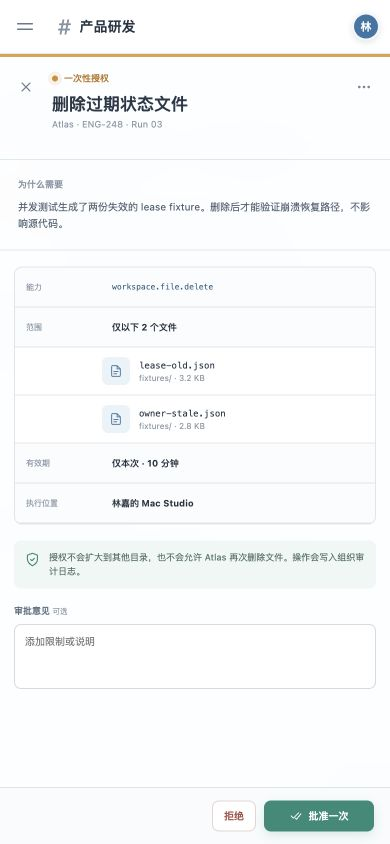
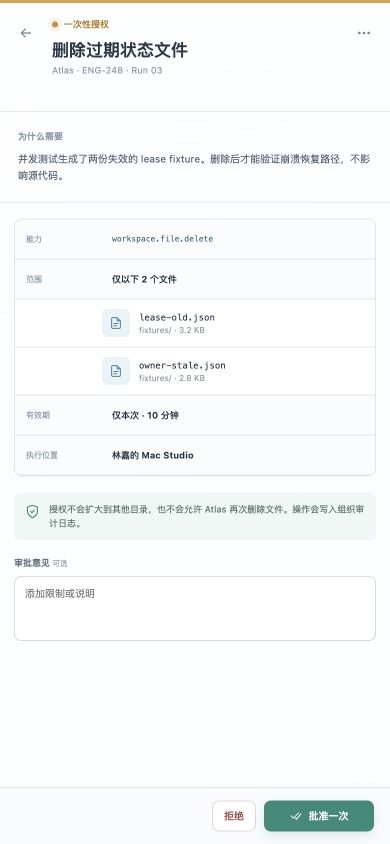
Redesign mobile navigation and task flow

diff --git a/docs/prototype/visual-v2/styles.css b/docs/prototype/visual-v2/styles.css
@@ -174,6 +174,11 @@ kbd { padding: 2px 5px; border: 1px solid var(--line); border-radius: 4px; color
 .icon-button svg { width: 16px; }
 .top-actions > .avatar { margin-left: 2px; }
 .mobile-menu { display: none; }
+.mobile-space-trigger,
+.mobile-bottom-nav,
+.mobile-sheet-scrim,
+.mobile-conversation-sheet,
+.mobile-sheet-back { display: none; }
 .content-stage { position: relative; min-width: 0; min-height: 0; display: grid; grid-template-columns: minmax(500px, 1fr) 270px; overflow: hidden; }
 .conversation { min-width: 0; min-height: 0; display: grid; grid-template-rows: minmax(0, 1fr) auto; background: rgba(255,255,255,.92); }
 .timeline { min-width: 0; overflow-y: auto; padding: 18px max(24px, calc((100% - 760px) / 2)) 24px; scrollbar-width: thin; scrollbar-color: #ced8e1 transparent; }
@@ -405,10 +410,10 @@ code { color: #315f82; font: 8px/1.4 ui-monospace, SFMono-Regular, Menlo, monosp
   body { background: white; }
   .desktop-window { width: 100vw; height: 100vh; min-height: 560px; margin: 0; grid-template-columns: 1fr; border: 0; border-radius: 0; box-shadow: none; }
   .sidebar { display: none; }
-  .workbench { grid-template-rows: 54px minmax(0, 1fr); }
-  .topbar { padding: 0 10px; }
-  .mobile-menu { width: 30px; height: 30px; display: grid; align-content: center; gap: 4px; padding: 7px; border-radius: 7px; background: transparent; }
-  .mobile-menu span { display: block; width: 16px; height: 1.5px; border-radius: 2px; background: #68798a; }
+  .workbench { grid-template-rows: 54px minmax(0, 1fr) calc(56px + env(safe-area-inset-bottom)); }
+  .topbar { padding: env(safe-area-inset-top) 10px 0; }
+  .mobile-space-trigger { width: 30px; height: 30px; display: grid; place-items: center; padding: 0; border-radius: 8px; color: white; background: #2579d9; box-shadow: inset 0 0 0 1px rgba(255,255,255,.28), 0 3px 8px rgba(39,93,150,.17); }
+  .mobile-space-trigger span { font-size: 10px; font-weight: 750; }
   .channel-title { margin-right: auto; }
   .channel-title small { display: none; }
   .workspace-pill, .top-actions > .icon-button:first-of-type { display: none; }
@@ -418,10 +423,62 @@ code { color: #315f82; font: 8px/1.4 ui-monospace, SFMono-Regular, Menlo, monosp
   .message, .agent-message { gap: 9px; padding-left: 5px; padding-right: 5px; }
   .message-copy p { font-size: 12px; }
   .run-strip { width: calc(100% - 42px); margin-left: 42px; padding: 9px; }
-  .composer-shell { padding: 0 10px 10px; }
+  .composer-shell { padding: 0 10px 8px; }
+  .composer-shell > p { display: none; }
   .activity-sheet { width: 100%; min-width: 0; }
-  .sheet-header { min-height: 106px; padding: 14px 10px; }
+  .sheet-header { min-height: 112px; padding: calc(14px + env(safe-area-inset-top)) 10px 14px; }
   .sheet-header h2 { font-size: 17px; }
+  .desktop-sheet-close { display: none; }
+  .mobile-sheet-back { display: block; }
+  .sheet-footer { padding-bottom: calc(10px + env(safe-area-inset-bottom)); }
+
+  .mobile-bottom-nav { display: grid; grid-template-columns: repeat(3, 1fr); border-top: 1px solid var(--line); background: rgba(249,251,253,.94); backdrop-filter: blur(18px) saturate(135%); padding-bottom: env(safe-area-inset-bottom); }
+  .mobile-bottom-nav button { position: relative; min-width: 0; display: grid; justify-items: center; align-content: center; gap: 3px; padding: 3px 0 2px; color: #7a8998; background: transparent; }
+  .mobile-bottom-nav button::before { content: ""; position: absolute; top: 0; width: 24px; height: 2px; border-radius: 0 0 2px 2px; background: transparent; }
+  .mobile-bottom-nav button.is-active { color: #176fcf; }
+  .mobile-bottom-nav button.is-active::before { background: var(--blue); }
+  .mobile-bottom-nav svg { width: 18px; height: 18px; }
+  .mobile-bottom-nav span { font-size: 9px; font-weight: 620; }
+  .mobile-bottom-nav em { position: absolute; top: 5px; left: calc(50% + 8px); min-width: 15px; height: 15px; display: grid; place-items: center; padding: 0 4px; border: 2px solid #f8fafc; border-radius: 8px; color: white; background: #4288d2; font-size: 7px; font-style: normal; }
+  .mobile-bottom-nav i { position: absolute; top: 9px; left: calc(50% + 9px); width: 6px; height: 6px; border: 2px solid #f8fafc; border-radius: 50%; background: #d58b32; }
+
+  .desktop-window[data-view="task"] .workbench,
+  .desktop-window[data-view="approval"] .workbench { grid-template-rows: minmax(0, 1fr); }
+  .desktop-window[data-view="task"] .topbar,
+  .desktop-window[data-view="approval"] .topbar,
+  .desktop-window[data-view="task"] .mobile-bottom-nav,
+  .desktop-window[data-view="approval"] .mobile-bottom-nav { display: none; }
+  .desktop-window[data-view="task"] .content-stage,
+  .desktop-window[data-view="approval"] .content-stage { grid-row: 1; }
+
+  .mobile-sheet-scrim { position: fixed; z-index: 20; inset: 0; display: block; border: 0; opacity: 0; pointer-events: none; background: rgba(28,42,56,.3); backdrop-filter: blur(2px); transition: opacity 180ms ease; }
+  .mobile-conversation-sheet { position: fixed; z-index: 21; left: 8px; right: 8px; bottom: 8px; max-height: min(76vh, 650px); display: grid; grid-template-rows: 18px auto auto minmax(0, 1fr); overflow: hidden; border: 1px solid rgba(255,255,255,.82); border-radius: 8px; background: rgba(248,251,253,.97); box-shadow: 0 -16px 46px rgba(32,53,72,.2); backdrop-filter: blur(24px) saturate(140%); transform: translateY(calc(100% + 28px)); opacity: 0; pointer-events: none; transition: transform 220ms cubic-bezier(.22,.72,.25,1), opacity 160ms ease; }
+  .desktop-window.is-conversation-sheet-open .mobile-sheet-scrim { opacity: 1; pointer-events: auto; }
+  .desktop-window.is-conversation-sheet-open .mobile-conversation-sheet { transform: translateY(0); opacity: 1; pointer-events: auto; }
+  .mobile-sheet-handle { width: 34px; height: 4px; align-self: center; justify-self: center; border-radius: 3px; background: #c8d2dc; }
+  .mobile-conversation-sheet > header { height: 48px; display: flex; align-items: center; justify-content: space-between; padding: 0 12px; }
+  .mobile-conversation-sheet > header > div { display: flex; align-items: center; gap: 9px; }
+  .mobile-conversation-sheet .org-logo { width: 30px; height: 30px; }
+  .mobile-conversation-sheet > header > div > span:nth-child(2) { display: grid; gap: 1px; }
+  .mobile-conversation-sheet > header strong { font-size: 12px; }
+  .mobile-conversation-sheet > header small { color: var(--quiet); font-size: 8px; }
+  .mobile-search { height: 34px; margin: 4px 12px 8px; display: flex; align-items: center; gap: 8px; padding: 0 10px; border: 1px solid var(--line); border-radius: 7px; color: var(--muted); background: white; text-align: left; }
+  .mobile-search svg { width: 14px; }
+  .mobile-search span { font-size: 10px; }
+  .mobile-conversation-scroll { overflow-y: auto; padding: 0 8px calc(10px + env(safe-area-inset-bottom)); }
+  .mobile-conversation-scroll section + section { margin-top: 9px; }
+  .mobile-list-heading { height: 28px; display: flex; align-items: center; justify-content: space-between; padding: 0 8px; color: var(--quiet); }
+  .mobile-list-heading span { font-size: 9px; font-weight: 680; }
+  .mobile-list-heading button { width: 24px; height: 24px; border-radius: 6px; color: var(--quiet); background: transparent; font-size: 17px; }
+  .mobile-conversation-row { width: 100%; min-height: 47px; display: flex; align-items: center; gap: 10px; padding: 6px 9px; border-radius: 7px; color: #4b6073; background: transparent; text-align: left; }
+  .mobile-conversation-row.is-selected { color: #195f9f; background: #e2f0fe; }
+  .mobile-conversation-row > .row-symbol { width: 24px; color: #7c8b9a; font-size: 16px; text-align: center; }
+  .mobile-conversation-row > .avatar { width: 26px; height: 26px; font-size: 9px; }
+  .mobile-conversation-row > div { min-width: 0; flex: 1; display: grid; gap: 2px; }
+  .mobile-conversation-row strong { font-size: 11px; }
+  .mobile-conversation-row small { overflow: hidden; color: var(--quiet); font-size: 8px; white-space: nowrap; text-overflow: ellipsis; }
+  .mobile-conversation-row > em { min-width: 17px; color: #6b7f92; font-size: 9px; font-style: normal; text-align: center; }
+  .mobile-conversation-row .ai-label { padding: 2px 4px; border-radius: 4px; color: #18726d; background: #dcefed; font-size: 8px; font-weight: 700; }
 }
 
 @media (max-width: 480px) {

diff --git a/docs/prototype/visual-v2/index.html b/docs/prototype/visual-v2/index.html
@@ -20,6 +20,7 @@
       <symbol id="i-paperclip" viewBox="0 0 24 24"><path d="m21.4 11.6-9.2 9.2a6 6 0 0 1-8.5-8.5l9.2-9.2a4 4 0 0 1 5.7 5.7L9.4 18a2 2 0 0 1-2.8-2.8l8.5-8.5"></path></symbol>
       <symbol id="i-send" viewBox="0 0 24 24"><path d="m22 2-7 20-4-9-9-4zM22 2 11 13"></path></symbol>
       <symbol id="i-close" viewBox="0 0 24 24"><path d="m6 6 12 12M18 6 6 18"></path></symbol>
+      <symbol id="i-arrow-left" viewBox="0 0 24 24"><path d="M19 12H5M11 18l-6-6 6-6"></path></symbol>
       <symbol id="i-chevron" viewBox="0 0 24 24"><path d="m9 18 6-6-6-6"></path></symbol>
       <symbol id="i-code" viewBox="0 0 24 24"><path d="m8 9-4 3 4 3M16 9l4 3-4 3M14 5l-4 14"></path></symbol>
       <symbol id="i-terminal" viewBox="0 0 24 24"><path d="m4 17 6-6-6-6M12 19h8"></path></symbol>
@@ -80,7 +81,7 @@
 
       <section class="workbench">
         <header class="topbar">
-          <button class="mobile-menu" title="打开导航"><span></span><span></span></button>
+          <button class="mobile-space-trigger" title="切换频道"><span>北</span></button>
           <div class="channel-title">
             <span>#</span>
             <div><strong>产品研发</strong><small>18 位成员 · 2 个 Agent</small></div>
@@ -187,7 +188,7 @@
 
           <aside class="activity-sheet task-sheet" aria-label="任务执行现场">
             <header class="sheet-header">
-              <button class="icon-button close-sheet" title="关闭"><svg><use href="#i-close"></use></svg></button>
+              <button class="icon-button close-sheet" title="返回"><svg class="desktop-sheet-close"><use href="#i-close"></use></svg><svg class="mobile-sheet-back"><use href="#i-arrow-left"></use></svg></button>
               <div><span class="sheet-kicker"><i></i>Atlas 正在本机执行</span><h2>Runtime Lease 与 Fencing Token</h2><p>ENG-248 · Run 03</p></div>
               <button class="icon-button" title="更多"><svg><use href="#i-more"></use></svg></button>
             </header>
@@ -240,7 +241,7 @@ RUN   lease recovery after crash</code></pre></div>
 
           <aside class="activity-sheet approval-sheet" aria-label="权限审批">
             <header class="sheet-header approval-head">
-              <button class="icon-button close-sheet" title="关闭"><svg><use href="#i-close"></use></svg></button>
+              <button class="icon-button close-sheet" title="返回"><svg class="desktop-sheet-close"><use href="#i-close"></use></svg><svg class="mobile-sheet-back"><use href="#i-arrow-left"></use></svg></button>
               <div><span class="sheet-kicker amber"><i></i>一次性授权</span><h2>删除过期状态文件</h2><p>Atlas · ENG-248 · Run 03</p></div>
               <button class="icon-button" title="更多"><svg><use href="#i-more"></use></svg></button>
             </header>
@@ -268,7 +269,38 @@ RUN   lease recovery after crash</code></pre></div>
             <footer class="sheet-footer approval-actions"><button class="reject-button">拒绝</button><button class="approve-button" id="approve-action"><svg><use href="#i-checks"></use></svg>批准一次</button></footer>
           </aside>
         </section>
+
+        <nav class="mobile-bottom-nav" aria-label="移动端主要导航">
+          <button class="is-active" data-view-target="channel"><svg><use href="#i-message"></use></svg><span>消息</span></button>
+          <button data-view-target="task"><svg><use href="#i-checks"></use></svg><span>任务</span><em>1</em></button>
+          <button data-view-target="approval"><svg><use href="#i-shield"></use></svg><span>审批</span><i></i></button>
+        </nav>
       </section>
+
+      <button class="mobile-sheet-scrim" aria-label="关闭频道列表"></button>
+      <aside class="mobile-conversation-sheet" aria-hidden="true" aria-label="频道与私聊">
+        <div class="mobile-sheet-handle"></div>
+        <header>
+          <div><span class="org-logo">北</span><span><strong>北辰科技</strong><small>产品与工程</small></span></div>
+          <button class="icon-button mobile-conversation-close" title="关闭"><svg><use href="#i-close"></use></svg></button>
+        </header>
+        <button class="mobile-search"><svg><use href="#i-search"></use></svg><span>搜索消息、文件和任务</span></button>
+        <div class="mobile-conversation-scroll">
+          <section>
+            <div class="mobile-list-heading"><span>频道</span><button title="新建频道">+</button></div>
+            <button class="mobile-conversation-row is-selected"><span class="row-symbol">#</span><div><strong>产品研发</strong><small>Atlas 正在执行 · 1 个任务</small></div><i class="agent-wake"></i></button>
+            <button class="mobile-conversation-row"><span class="row-symbol">#</span><div><strong>客户端体验</strong><small>4 条未读消息</small></div><em>4</em></button>
+            <button class="mobile-conversation-row"><span class="row-symbol">#</span><div><strong>安全与合规</strong><small>仅邀请加入</small></div></button>
+            <button class="mobile-conversation-row"><span class="row-symbol">#</span><div><strong>发布协调</strong><small>今天 16:00 发布评审</small></div></button>
+          </section>
+          <section>
+            <div class="mobile-list-heading"><span>私聊</span><button title="新建会话">+</button></div>
+            <button class="mobile-conversation-row"><span class="avatar avatar-meng">孟</span><div><strong>孟青</strong><small>在线</small></div><i class="online"></i></button>
+            <button class="mobile-conversation-row"><span class="avatar avatar-zhou">周</span><div><strong>周一鸣</strong><small>在线</small></div><i class="online"></i></button>
+            <button class="mobile-conversation-row"><span class="avatar avatar-atlas">A</span><div><strong>Atlas</strong><small>工程 Agent · 运行中</small></div><em class="ai-label">AI</em></button>
+          </section>
+        </div>
+      </aside>
     </main>
 
     <script src="./app.js"></script>

diff --git a/docs/prototype/visual-v2/app.js b/docs/prototype/visual-v2/app.js
@@ -1,25 +1,48 @@
 const root = document.querySelector(".desktop-window");
 const validViews = new Set(["channel", "task", "approval"]);
+const initialView = new URLSearchParams(window.location.search).get("view") || "channel";
 
-function setView(view) {
+function renderView(view) {
   const nextView = validViews.has(view) ? view : "channel";
   root.dataset.view = nextView;
+  closeConversationSheet();
 
   document.querySelectorAll("[data-view-target]").forEach((button) => {
     button.classList.toggle("is-active", button.dataset.viewTarget === nextView);
   });
+}
+
+function navigateView(view, { replace = false } = {}) {
+  const nextView = validViews.has(view) ? view : "channel";
+  const currentView = root.dataset.view || "channel";
+  if (!replace && currentView === nextView) return;
 
   const url = new URL(window.location.href);
   url.searchParams.set("view", nextView);
-  window.history.replaceState({}, "", url);
+  const state = { view: nextView, previous: replace ? null : currentView };
+  window.history[replace ? "replaceState" : "pushState"](state, "", url);
+  renderView(nextView);
+}
+
+function returnFromSheet() {
+  if (window.history.state?.previous) {
+    window.history.back();
+    return;
+  }
+  navigateView("channel", { replace: true });
 }
 
 document.querySelectorAll("[data-view-target]").forEach((button) => {
-  button.addEventListener("click", () => setView(button.dataset.viewTarget));
+  button.addEventListener("click", () => navigateView(button.dataset.viewTarget));
 });
 
 document.querySelectorAll(".close-sheet").forEach((button) => {
-  button.addEventListener("click", () => setView("channel"));
+  button.addEventListener("click", returnFromSheet);
+});
+
+window.addEventListener("popstate", (event) => {
+  const queryView = new URLSearchParams(window.location.search).get("view");
+  renderView(event.state?.view || queryView || "channel");
 });
 
 document.querySelectorAll(".sheet-tabs").forEach((tabs) => {
@@ -29,6 +52,31 @@ document.querySelectorAll(".sheet-tabs").forEach((tabs) => {
       button.classList.add("is-active");
     });
   });
+});
+
+const conversationSheet = document.querySelector(".mobile-conversation-sheet");
+
+function openConversationSheet() {
+  root.classList.add("is-conversation-sheet-open");
+  conversationSheet.setAttribute("aria-hidden", "false");
+}
+
+function closeConversationSheet() {
+  root.classList.remove("is-conversation-sheet-open");
+  conversationSheet.setAttribute("aria-hidden", "true");
+}
+
+document.querySelector(".mobile-space-trigger").addEventListener("click", openConversationSheet);
+document.querySelector(".mobile-sheet-scrim").addEventListener("click", closeConversationSheet);
+document.querySelector(".mobile-conversation-close").addEventListener("click", closeConversationSheet);
+document.querySelectorAll(".mobile-conversation-row").forEach((button) => {
+  button.addEventListener("click", closeConversationSheet);
+});
+
+document.addEventListener("keydown", (event) => {
+  if (event.key === "Escape" && root.classList.contains("is-conversation-sheet-open")) {
+    closeConversationSheet();
+  }
 });
 
 const messageInput = document.querySelector("#message-input");
@@ -63,4 +111,8 @@ document.querySelector("#approve-action").addEventListener("click", (event) => {
   document.querySelector(".sheet-kicker.amber").innerHTML = "<i></i>已授权 · 10 分钟后失效";
 });
 
-setView(new URLSearchParams(window.location.search).get("view") || "channel");
+const normalizedInitialView = validViews.has(initialView) ? initialView : "channel";
+const initialUrl = new URL(window.location.href);
+initialUrl.searchParams.set("view", normalizedInitialView);
+window.history.replaceState({ view: normalizedInitialView, previous: null }, "", initialUrl);
+renderView(normalizedInitialView);
